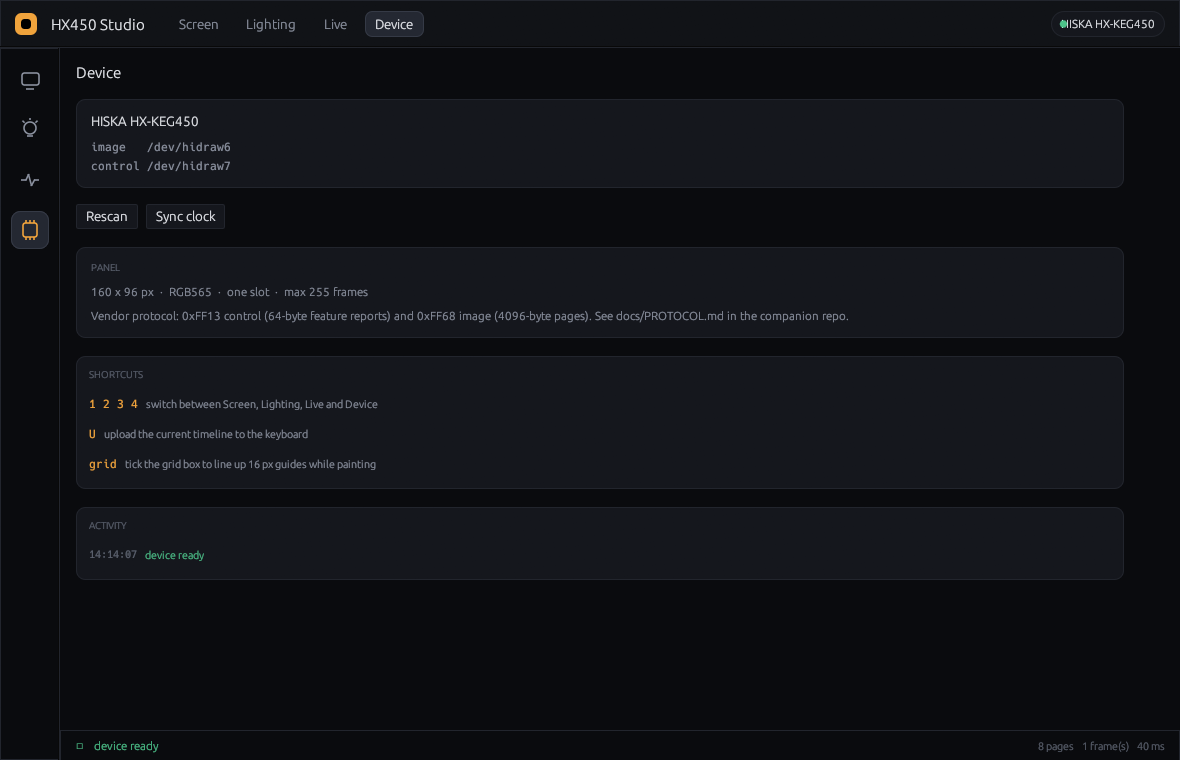
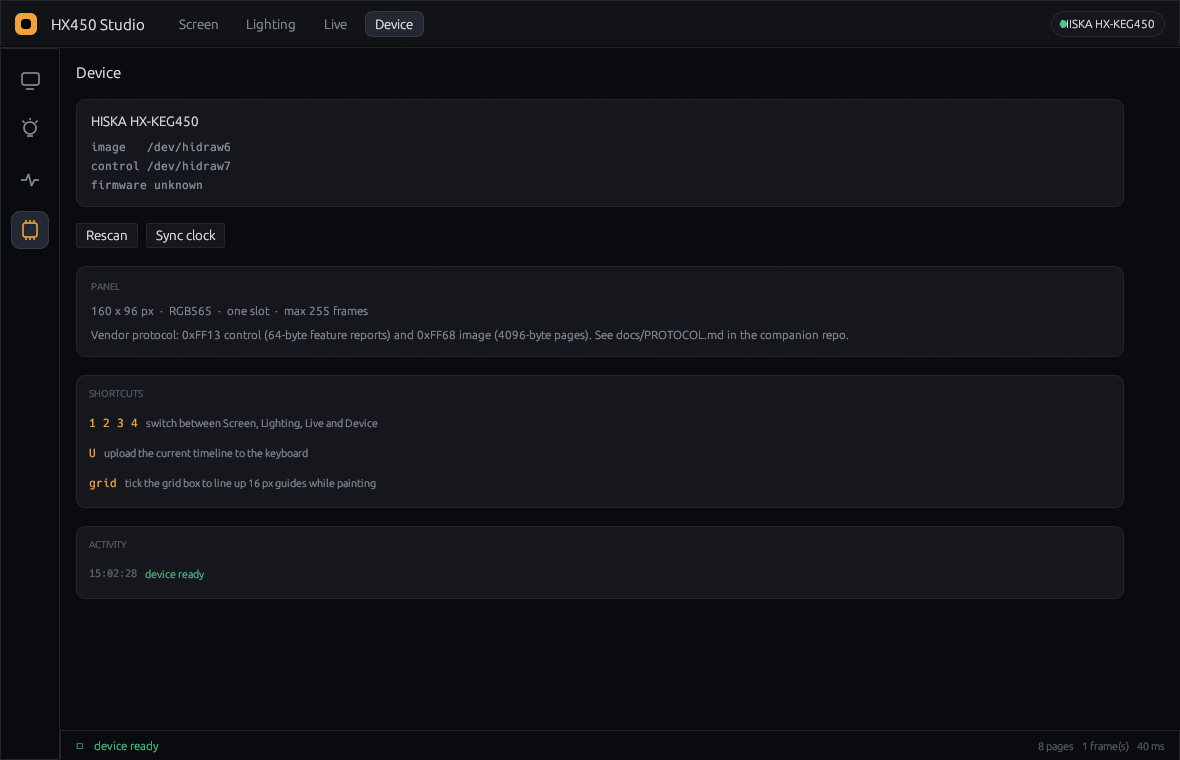
docs: badges, family table and refreshed screenshots
Screenshots recaptured from the release build: the live view now shows a running
loop with the green 'live · pushed Ns ago' indicator, and the device view shows
the firmware version read from the USB descriptor.

diff --git a/README.md b/README.md
@@ -4,12 +4,25 @@ A desktop studio for the **HISKA HX-KEG450** keyboard's 160×96 LCD and its RGB
 lighting — written in Rust with [egui](https://github.com/emilk/egui), drawn on
 the GPU, shipped as a single binary. No Windows, no vendor tool, no VM.
 
+![license](https://img.shields.io/badge/license-MIT-blue)
+![rust](https://img.shields.io/badge/rust-1.88%2B-dea584?logo=rust&logoColor=black)
+![egui](https://img.shields.io/badge/egui-0.31-000?logo=rust)
+![platform](https://img.shields.io/badge/platform-Linux-333?logo=linux&logoColor=white)
+![hardware](https://img.shields.io/badge/hardware-HX--KEG450-4cc38a)
+
 ![HX450 Studio, screen view](docs/img/studio-screen.png)
 
 The keyboard speaks a private HID protocol that only the vendor's Windows app
-understood. That protocol was reverse-engineered and is documented in the
-companion repo, [`hiska-keg450-lcd`](https://github.com/securityvisions/hiska-keg450-lcd);
-this app is the friendly front end for it.
+understood. This app is the friendly front end for the reverse-engineered
+protocol.
+
+## The family
+
+| Repo | What it is |
+|---|---|
+| **hx450-studio** (here) | Rust + egui desktop studio |
+| [**hiska-keg450-lcd**](https://github.com/securityvisions/hiska-keg450-lcd) | Python CLI + protocol reference |
+| [**hx450-re**](https://github.com/securityvisions/hx450-re) | reverse-engineering kit — opcode atlas, firmware report, Ghidra evidence |
 
 ## Views
 
@@ -61,7 +74,7 @@ was found. Click the chip to rescan.
 
 ## Using it
 
-1. **Screen** — draw, or `Import image / GIF`. Use `+` / `−` on the timeline to
+1. **Screen** — draw, or **Import image / GIF**. Use `+` / `−` on the timeline to
    duplicate or delete frames, set the delay, then **Upload to keyboard**
    (a 225-frame animation takes about four minutes).
 2. **Lighting** — pick an effect, choose a colour, hit **Apply lighting**. Tick
